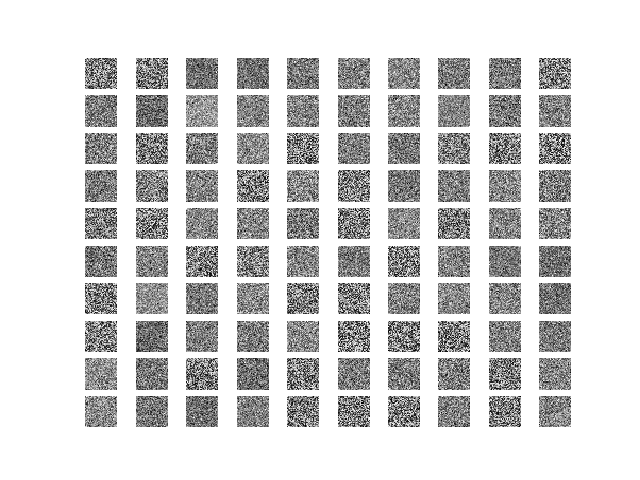
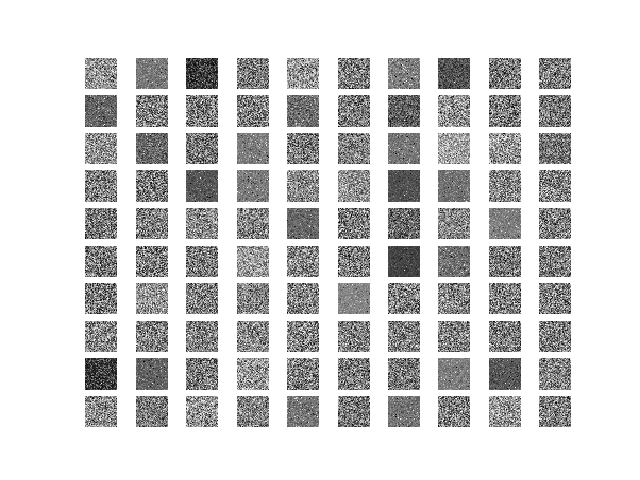
Working partb

diff --git a/project2b.py b/project2b.py
@@ -6,12 +6,16 @@ import pylab
 import theano
 import theano.tensor as T
 from theano.sandbox.rng_mrg import MRG_RandomStreams as RandomStreams
+import math
 
 corruption_level=0.1
-training_epochs = 25 #25
-learning_rate = 0.1 #0.1
+training_epochs = 5 #25
+learning_rate = 0.6 #0.1
 batch_size = 128
-with_attributes = False # use momentum, and sparsity?
+momentum=0.1
+penalty=0.5
+sparsity=0.05
+with_attributes = True # use momentum, and sparsity?
 
 # 1 encoder, decoder and a softmax layer
 
@@ -26,6 +30,12 @@ def init_weights(n_visible, n_hidden):
 
 def init_bias(n):
     return theano.shared(value=np.zeros(n,dtype=theano.config.floatX),borrow=True)
+
+
+def init_velocity(filter_shape):
+    w_values =  np.zeros(shape=filter_shape, dtype=theano.config.floatX)
+    return theano.shared(w_values, borrow=True)
+
 
 def create_network_parameters(config):
     """ config=(input_count, enc1, ..., encN, output_count) """
@@ -42,6 +52,14 @@ def create_network_parameters(config):
 
     return w,b,bp
 
+
+def create_velocity(config):
+    velocities = [0]
+    for i in range(1, len(config)):
+        v = init_velocity((config[i-1], config[i]))
+        velocities.append(v)
+    return velocities
+
 def create_encoder_trainer(y,w,b,bp,layerIndex, inputX):
     global learning_rate
 
@@ -50,7 +68,7 @@ def create_encoder_trainer(y,w,b,bp,layerIndex, inputX):
 
     z1 = T.nnet.sigmoid(T.dot(y[layerIndex], w[layerIndex].transpose()) + bp[layerIndex])
     x = y[layerIndex-1]
-    cost1 = - T.mean(T.sum(x * T.log(z1) + (1 - x) * T.log(1 - z1), axis=1))
+    cost1 = - T.mean(T.sum(x * T.log(z1) + (1 - x) * T.log(1 - z1), axis=1)) # general cost
     params1 = [w[layerIndex], b[layerIndex], bp[layerIndex]]
     grads1 = T.grad(cost1, params1)
     updates1 = [(param1, param1 - learning_rate * grad1)
@@ -59,27 +77,71 @@ def create_encoder_trainer(y,w,b,bp,layerIndex, inputX):
         allow_input_downcast = True)
     return train_da1
 
+def create_encoder_trainer_sparsity(y,w,b,bp,v,layerIndex,inputX):
+    global learning_rate
+    global momentum
+    global sparsity
+    global penalty
+
+    beta = penalty
+    rho = sparsity
+
+    # to train hidden encoder layer i, use output of layer (i-1)
+    # for training
+
+    z1 = T.nnet.sigmoid(T.dot(y[layerIndex], w[layerIndex].transpose()) + bp[layerIndex])
+    x = y[layerIndex-1]
+
+    # calculate sparsity
+    dh = beta*T.shape(z1)[1]*(rho*T.log(rho) + (1-rho)*T.log(1-rho)) \
+			- beta*rho*T.sum(T.log(T.mean(z1, axis=0)+1e-6)) \
+			- beta*(1-rho)*T.sum(T.log(1-T.mean(z1, axis=0)+1e-6))
+
+    cost1 = - T.mean(T.sum(x * T.log(z1) + (1 - x) * T.log(1 - z1), axis=1)) + dh
+    params1 = [w[layerIndex], b[layerIndex], bp[layerIndex]]
+
+    gradW = T.grad(cost=cost1, wrt=w[layerIndex])
+    gradB = T.grad(cost=cost1, wrt=[b[layerIndex],bp[layerIndex]])
+
+    updates1 = []
+    temp = momentum*v[layerIndex] - gradW*learning_rate
+
+    updates1.append( (v[layerIndex], temp) )
+    updates1.append( (w[layerIndex], w[layerIndex]+temp) )
+    updates1.append( (b[layerIndex], b[layerIndex] - learning_rate * gradB[0]) )
+    updates1.append( (bp[layerIndex], bp[layerIndex] - learning_rate * gradB[1]) )
+
+    train_da1 = theano.function(inputs=[inputX], outputs = [cost1], updates = updates1, 
+        allow_input_downcast = True)
+    return train_da1
+
+
 # load data
 trX, teX, trY, teY = mnist(12000,2000)
 
-x = T.fmatrix('x')  
-d = T.fmatrix('d')
+x = T.dmatrix('x')  
+d = T.dmatrix('d')
 
 rng = np.random.RandomState(123)
 theano_rng = RandomStreams(rng.randint(2 ** 30))
 
 # create weights and biases
 config = [28*28, 900, 625, 400, 10]
-weight_image_size = [28, 30, 25]
+
+#config = [28*28, 900, 10]
+weight_image_size = [28, 30, 25, 20]
+
 weights,biases,bprimes = create_network_parameters(config)
+
+if(with_attributes):
+    velocities = create_velocity(config)
 
 encoder_layer_count = len(config)-2
 
-# -- create the training functions --
 tilde_x = theano_rng.binomial(size=x.shape, n=1, p=1 - corruption_level,
                 dtype=theano.config.floatX)*x
 
-# 1 - create the feedforward expressions
+# create the feedforward expressions
 y=[tilde_x]
 for i in range(1,len(config)):
     if i<len(config)-1:
@@ -87,12 +149,26 @@ for i in range(1,len(config)):
     else:
         y.append(T.nnet.softmax(T.dot(y[i-1], weights[i]) + biases[i])) # softmax output layer
 
-# 2 - create training functions for each encoder layer
+# create training functions for each encoder layer
 train_enc=[]
 for i in range(encoder_layer_count):
-    train_enc.append(create_encoder_trainer(y,weights,biases,bprimes, i+1, x))
+    if with_attributes:
+        func = create_encoder_trainer_sparsity(y,weights,biases,bprimes,velocities,i+1, x)
+    else:
+        func = create_encoder_trainer(y,weights,biases,bprimes, i+1, x)
+    train_enc.append(func)
 
-# 3 - create training functions for feed forward network
+# create encoder/decoder network for reconstruction of image
+t0 = y[encoder_layer_count]
+recoutputs = []
+for i in range(encoder_layer_count):
+    wi = encoder_layer_count-i
+    t1 = T.nnet.sigmoid(T.dot(t0, weights[wi].transpose()) + bprimes[wi])
+    t0 = t1
+    recoutputs.append(y[i+1])
+reconstruct_func = theano.function(inputs=[x], outputs = [t0]+recoutputs, allow_input_downcast = True)
+
+# create training functions for feed forward network
 p_y2 = y[len(config)-1] # final layer output
 y2 = T.argmax(p_y2, axis=1)
 cost2 = T.mean(T.nnet.categorical_crossentropy(p_y2, d))
@@ -122,7 +198,10 @@ for i in range(encoder_layer_count):
         # go through training set
         c = []
         for start, end in zip(range(0, len(trX), batch_size), range(batch_size, len(trX), batch_size)):
-            c.append(train_enc[i](trX[start:end]))
+            cs = train_enc[i](trX[start:end])
+            c.append(cs)
+          
+            
         d.append(np.mean(c, dtype='float64'))
         print(d[epoch])
 
@@ -142,16 +221,51 @@ for i in range(encoder_layer_count):
         pylab.subplot(10, 10, j+1); pylab.axis('off'); pylab.imshow(w1[:,j].reshape(sz,sz))
     pylab.savefig(filename_prefix +"enc_weights_%d.png" % (i+1))
 
-"""
-TODO:
-    for i = 1 to 100:
-        select a test image
-        run it through encoder stack
-        plot out the reconstructed image
-        plot out the hidden layer activation matrix
-"""
 
+# test images reconstruction
+cmap = pylab.cm.get_cmap('gray')
+figInputImages, axesInput = pylab.subplots(10,10)
+figInputImages.suptitle("input images")
 
+figOutputImages, axesOutput = pylab.subplots(10,10)
+figOutputImages.suptitle("reconstructed images")
+
+figHiddenActivation = []
+axesActivation = []
+
+for i in range(encoder_layer_count):
+    f,ax = pylab.subplots(10,10)
+    f.suptitle("hidden layer activation (%d neurons)" % config[i+1])
+
+    figHiddenActivation.append(f)
+    axesActivation.append(ax)
+
+for i in range(100):
+    ind = np.random.randint(low=0, high=2000) # select a random image
+    indX, indY = i%10, i//10
+
+    # plot the input images
+    image = teX[ind:ind+1, :]
+    axesInput[indX, indY].imshow(image.reshape(28,28),cmap=cmap)
+    axesInput[indX, indY].axis('off')
+
+    # reconstruct images
+    oimages = reconstruct_func(image)
+    axesOutput[indX, indY].imshow(oimages[0].reshape(28,28),cmap=cmap)
+    axesOutput[indX, indY].axis('off')
+
+    # plot hidden activations
+    for j in range(encoder_layer_count):
+        ax = axesActivation[j][indX, indY]
+        ax.axis('off')
+        ax.imshow(oimages[j+1].reshape(weight_image_size[j+1],weight_image_size[j+1]))
+
+figInputImages.savefig(filename_prefix +"input_images.png")
+figInputImages.savefig(filename_prefix +"reconstructed_images.png")
+for i in range(encoder_layer_count):
+    figHiddenActivation[i].savefig(filename_prefix +"hidden_activation_%d.png" % config[i+1])
+
+# train the ffn
 print('\n** training ffn ...')
 d, a = [], []
 for epoch in range(training_epochs):
@@ -172,11 +286,3 @@ ax = fig.axes[0].twinx()
 ax.plot(range(training_epochs), a, color='green')
 ax.set_ylabel('test accuracy', color='green')
 fig.savefig(filename_prefix +"ffn_training.png")
-
-"""
-w2 = W2.get_value()
-pylab.figure()
-pylab.gray()
-pylab.axis('off'); pylab.imshow(w2)
-pylab.savefig('figure_2b_5.png')
-"""
